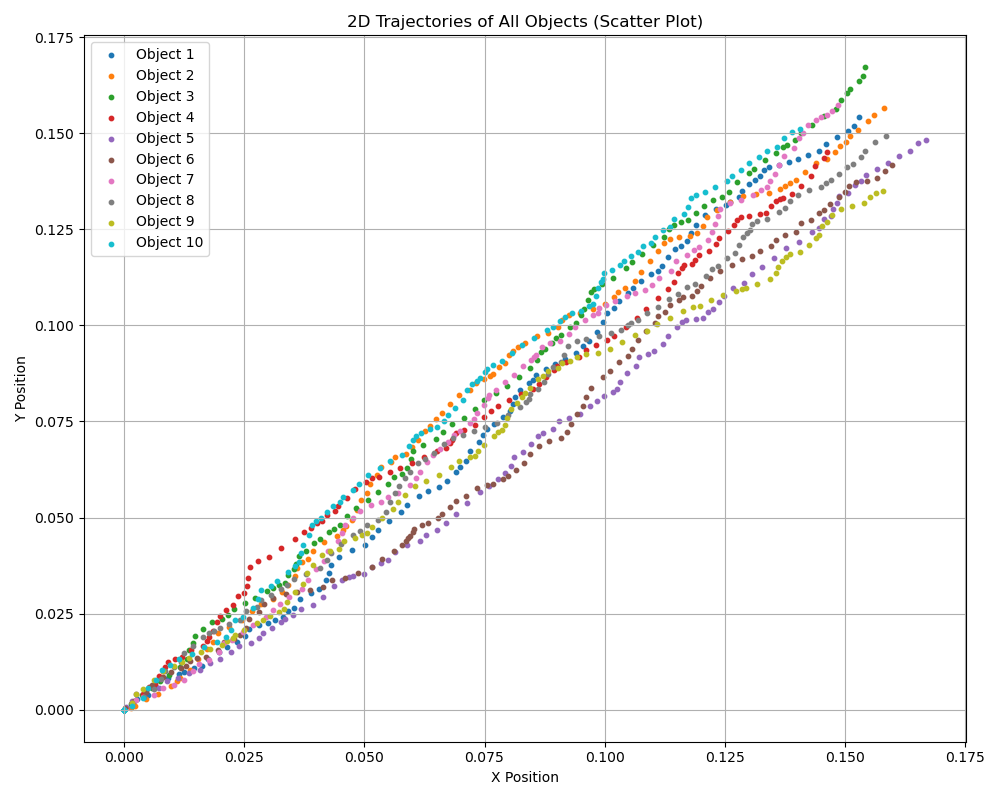
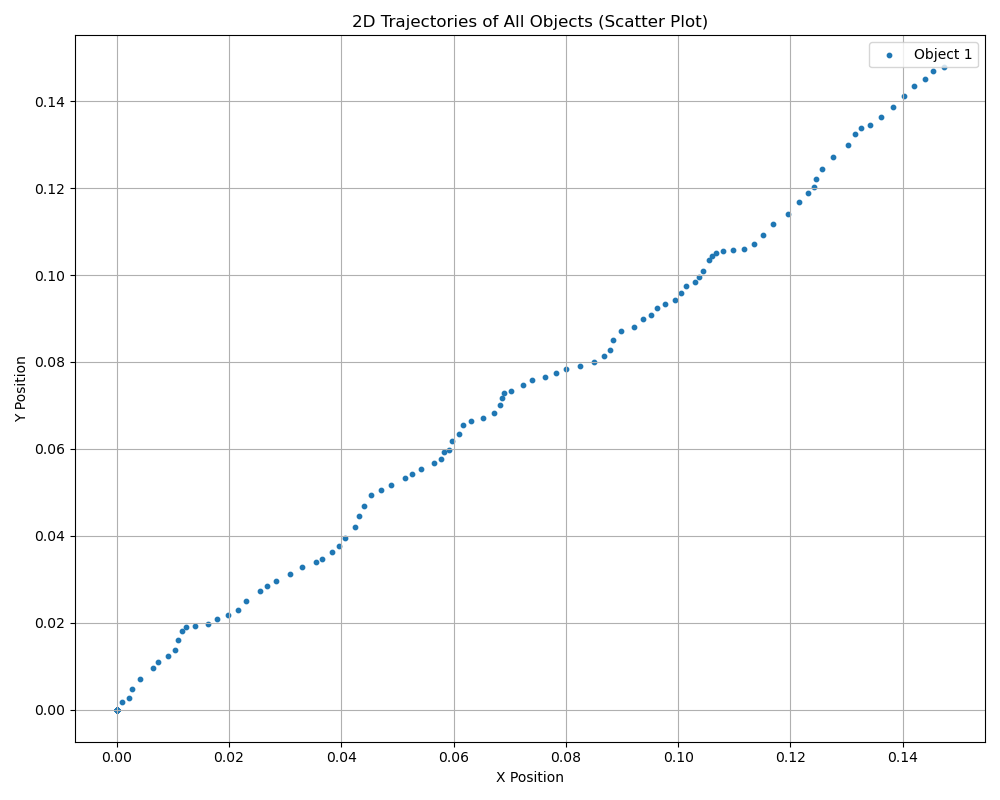
no random distribution in accelerations (accela)

diff --git a/src/main.cpp b/src/main.cpp
@@ -10,7 +10,7 @@
 int main()
 {
     double delta_t = 0.001;
-    int SIZE = 10; // the number of objects
+    int SIZE = 1; // the number of objects
     
     // intialize an array of 10 linear motion objects
     LinearMotion *lms[SIZE];
@@ -145,7 +145,8 @@ int main()
             // fixed and height of predestrians does not change
             double accelx = accel_dist(gen); // acceleration in x direction
             double accely = accel_dist(gen); // acceleration in y direction
-            double accela = ((double)rand() / RAND_MAX) * 0.2 - 0.1; // acceleration in angular direction
+            //double accela = ((double)rand() / RAND_MAX) * 0.2 - 0.1; // acceleration in angular direction
+            double accela = 1 * 0.2 - 0.1; // acceleration in angular direction
             double accelh = 0.0;
 
             // for constant acceleration
